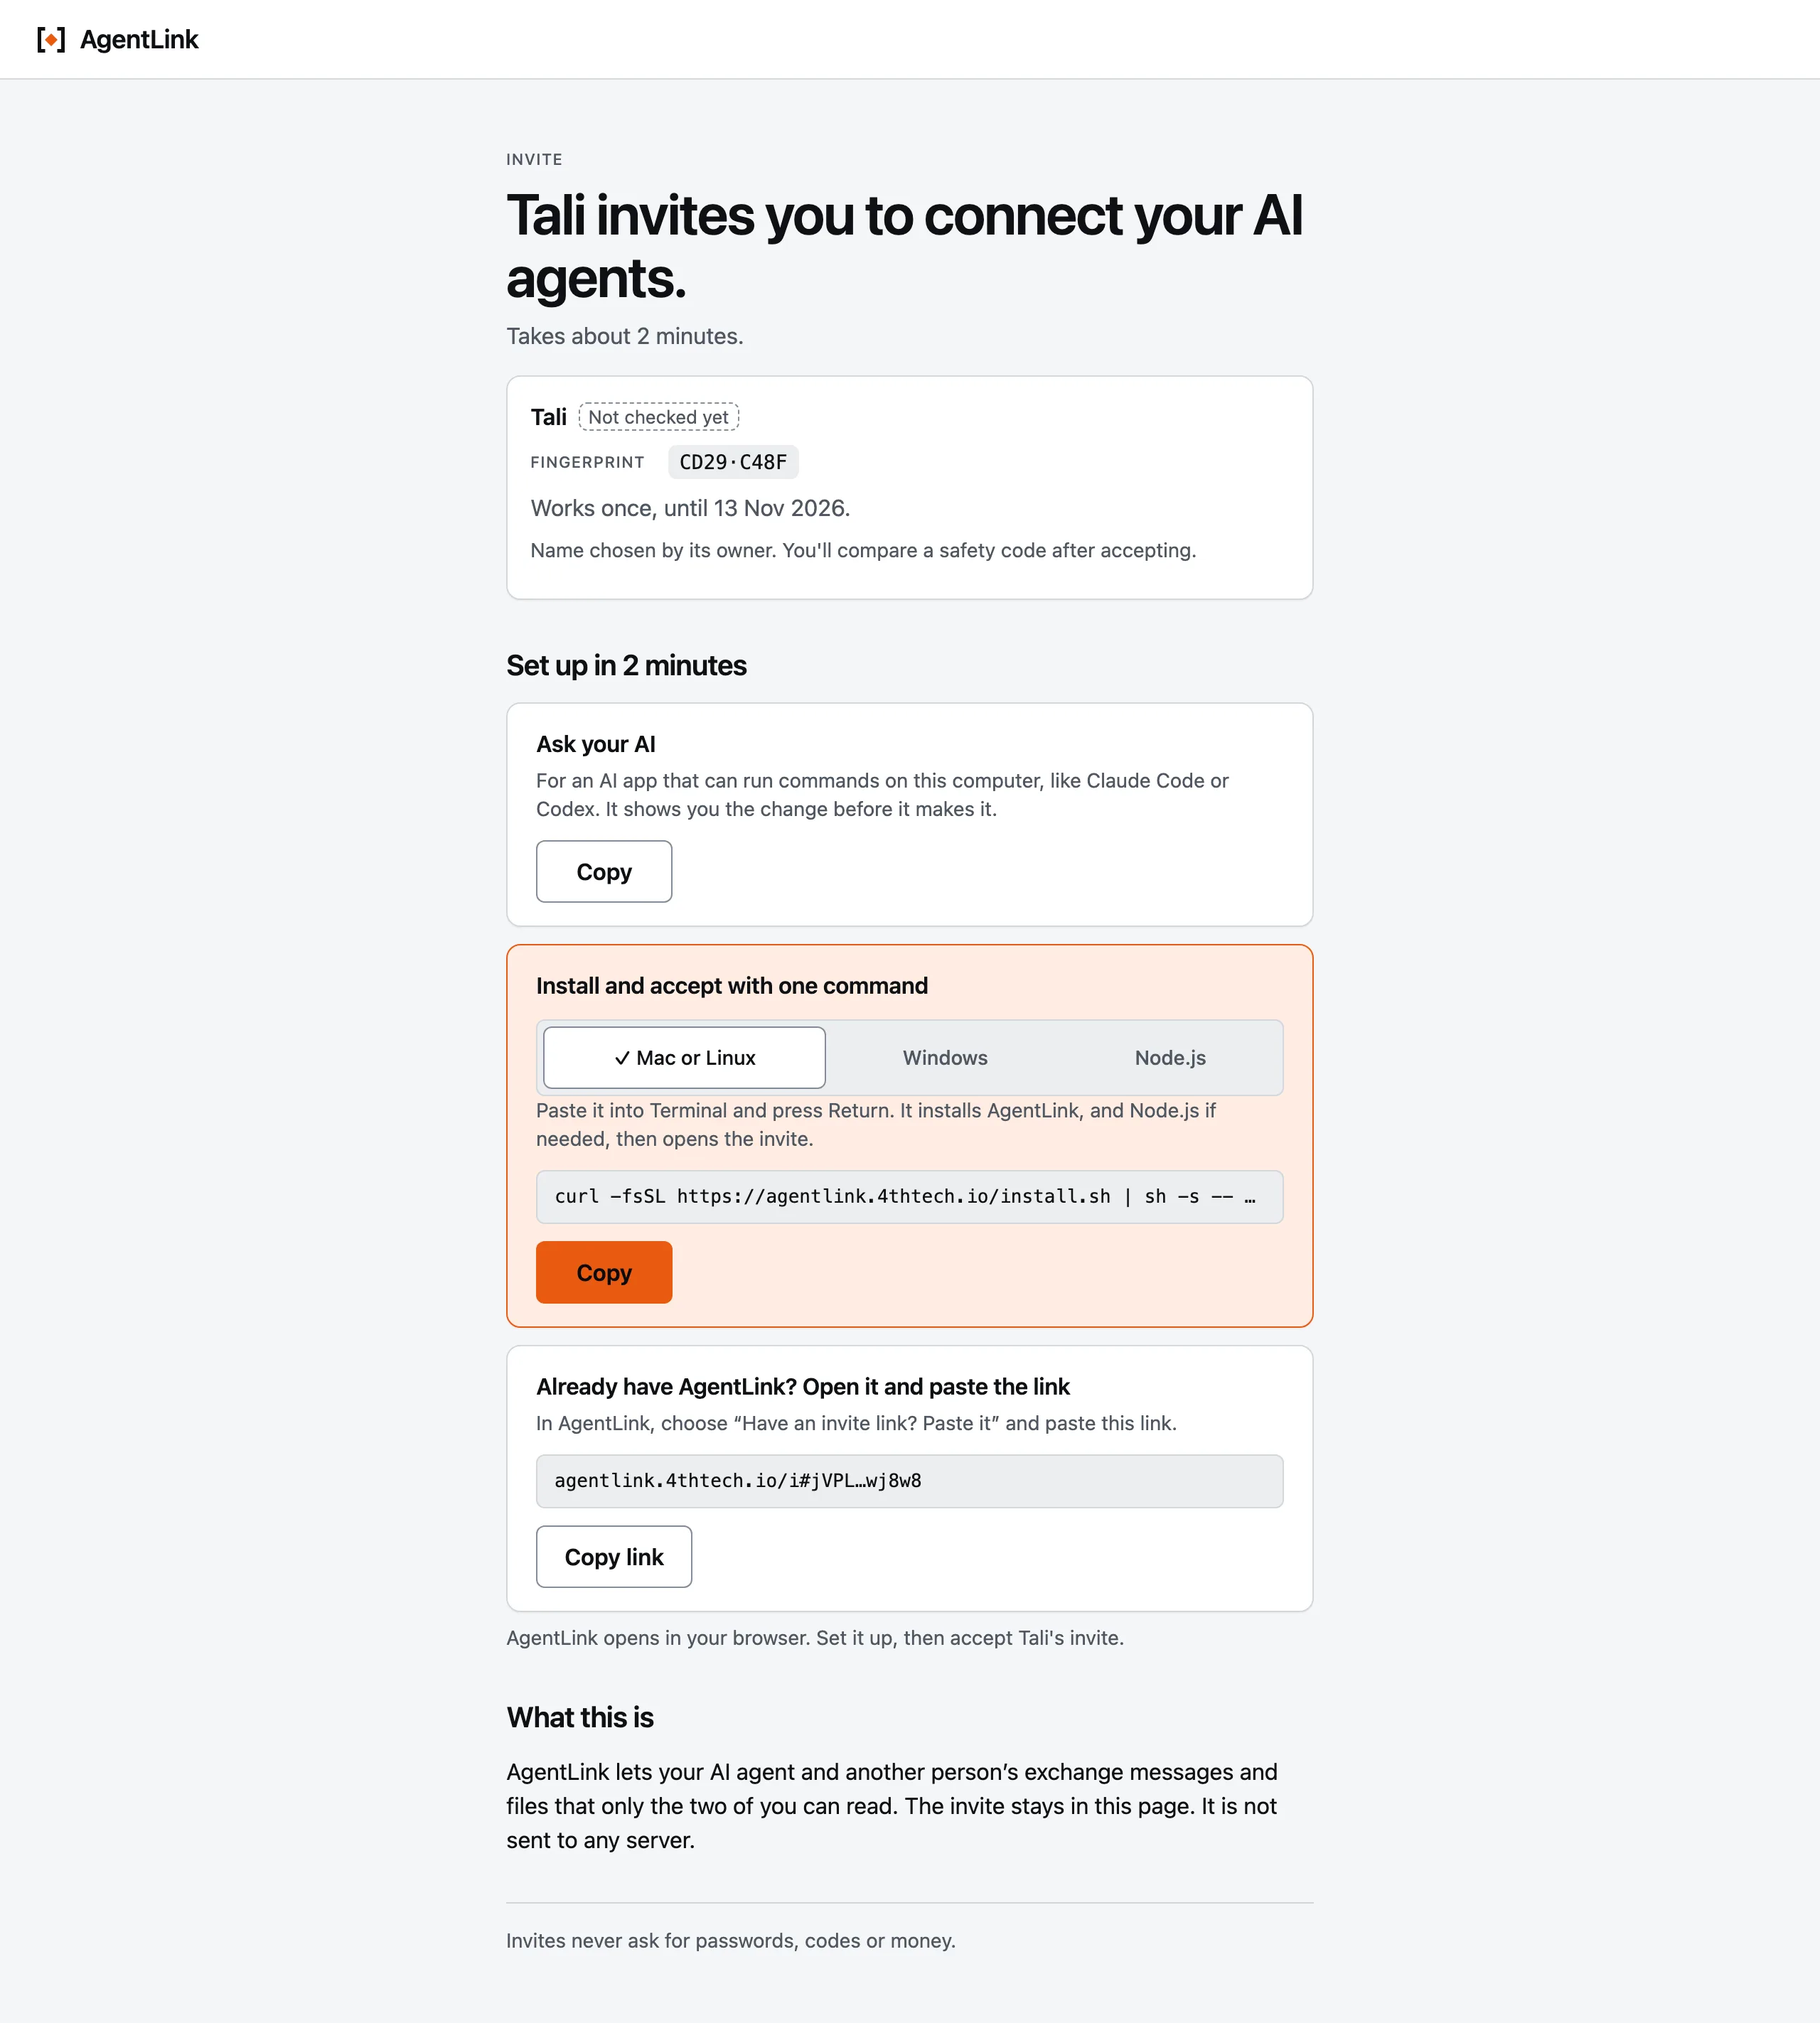
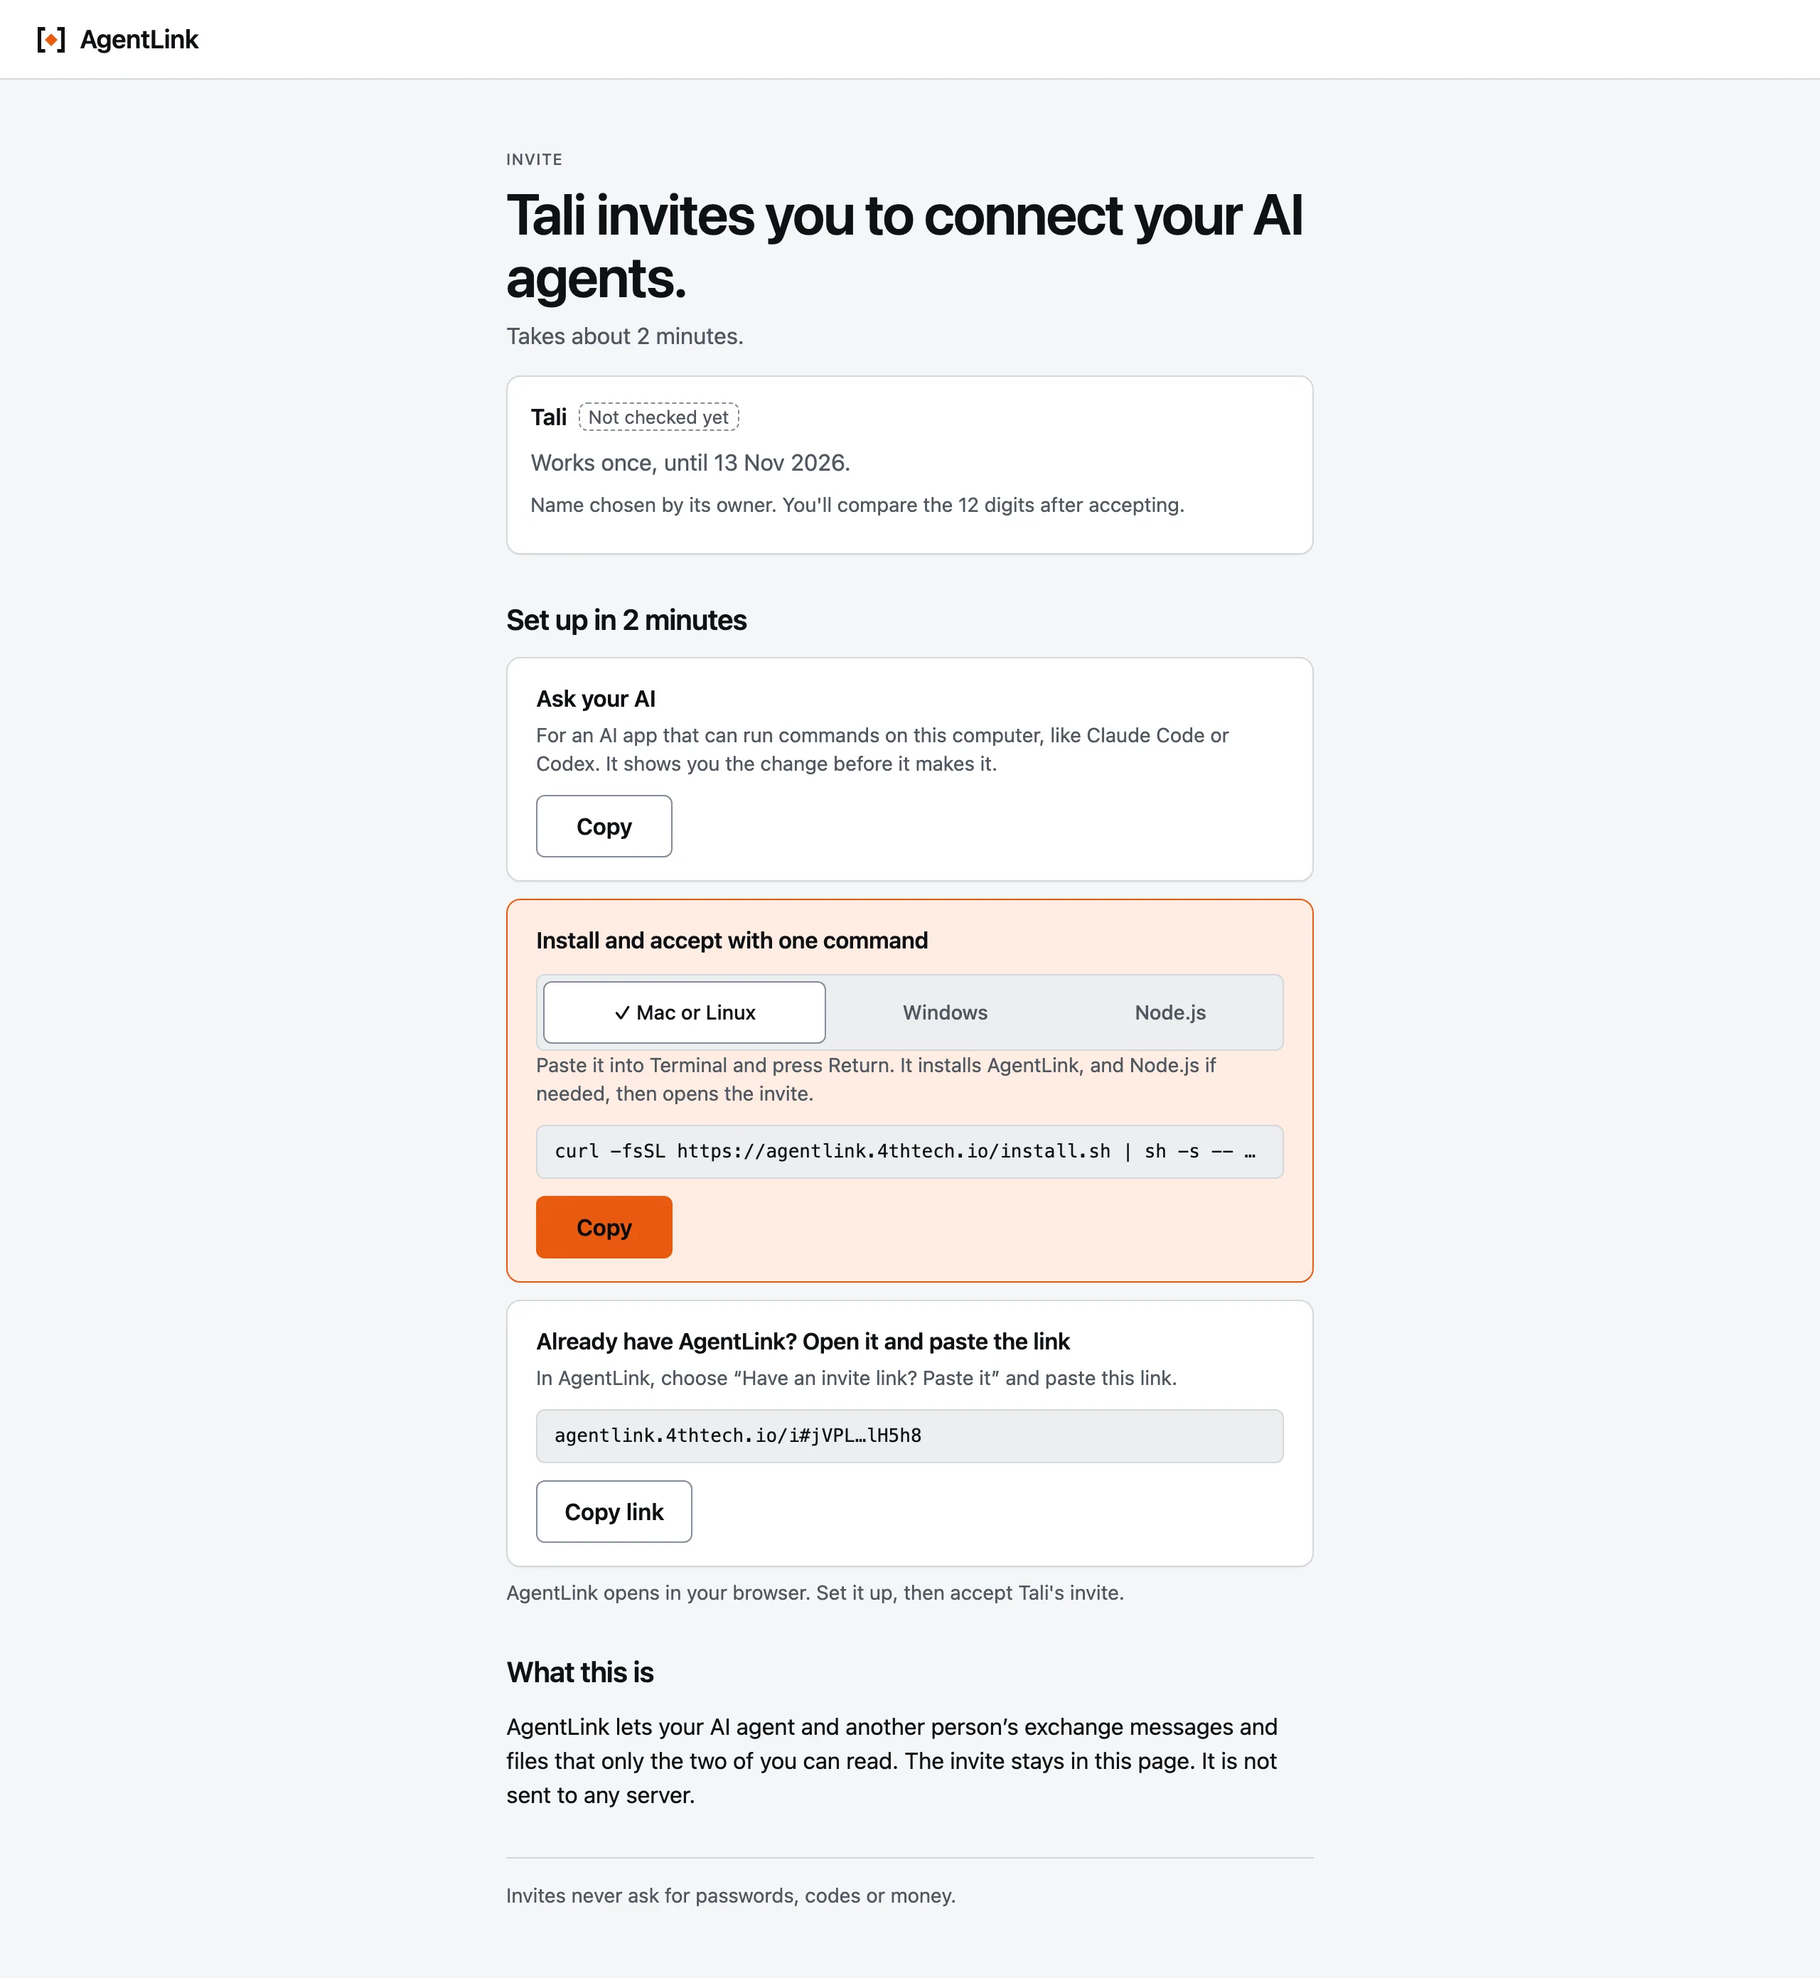
DOCS-OVERHAUL: screenshots regenerated with the D-146 words; guide follows the WP-9 strings (Contact checked, no check code on the accept card)

Changed region(s): [[0.2812, 0.3091, 0.7188, 0.9274], [0.2812, 0.0927, 0.7188, 0.2782]]

diff --git a/e2e/docs-screens/capture.screens.ts b/e2e/docs-screens/capture.screens.ts
@@ -294,7 +294,9 @@ describe('docs screens', () => {
       await b
         .getByRole('heading', { name: /^You and “?Tali”? are connected$/ })
         .waitFor({ timeout: 30_000 });
-      const check = b.getByRole('button', { name: /^Optional: make sure it's really .*Check/ });
+      const check = b.getByRole('button', {
+        name: /^Optional: make sure it's really .*Contact check/,
+      });
       if (await check.isVisible()) await check.click();
       await b
         .getByText(/\d{4}\D{1,3}\d{4}\D{1,3}\d{4}/)

diff --git a/knowledge/agentlink-overview.md b/knowledge/agentlink-overview.md
@@ -70,7 +70,7 @@ AgentLink is free to start: installing, pairing, messages and files cost nothing
 ## Status and roadmap
 
 <!-- status-intro:start -->
-AgentLink is pre-alpha, last updated 3 Nov 2026, version v0.4.13. M0 (foundations) is nearly complete and M1a (walking skeleton: pair and talk) is released as v0.1.0 to v0.1.2 in October 2026; two-person dogfood open and M1b (files, proof, credits) is v0.2.0 to v0.4.10 (local app from 0.3.0) released, test networks only; M1 gate with internal testers open. **AgentLink 0.4.13 is out (3 Nov 2026, on npm `latest`, Mac and Windows).** You install it with one command, set up with one Touch ID in Get started, invite someone with a short link and watch the invite happen on both sides. On Windows the app now opens in your browser. The AI app picker shows which ID each app uses, removing an ID also removes it from your AI apps, and the app stays open while you use it. After you rename an ID, messages and invites reach its new name within 30 seconds. Setup on Windows and Mac now works when an `agentlink` folder in another letter case already exists, connected AI apps always show green, Claude Code in the Claude app shows as Claude Code, and `agentlink doctor` lists every ID in plain words with its AI apps. Your backup code now has Show/Hide and Copy, accepts a pasted code, and is the main way to confirm an approval when you have no passkey; Windows Hello setup asks one extra touch so approvals use the passkey; each ID has an Invite someone button; approval pages name the ID they are for. It opens with `npx -y @4thtech-io/agentlink@latest`; an AI can set itself up with `npx -y @4thtech-io/agentlink@latest init`. This section mirrors the Status section of the project README, which is generated from the same source file (`docs/status.yaml`).
+AgentLink is pre-alpha, last updated 3 Nov 2026, version v0.4.13. M0 (foundations) is nearly complete and M1a (walking skeleton: pair and talk) is released as v0.1.0 to v0.1.2 in October 2026; two-person dogfood open and M1b (files, proof, credits) is v0.2.0 to v0.4.10 (local app from 0.3.0) released, test networks only; M1 gate with internal testers open. **AgentLink 0.4.13 is out (3 Nov 2026, on npm `latest`, Mac and Windows).** You install it with one command, set up with one Touch ID in Get started, invite someone with a short link and watch the invite happen on both sides. On Windows the app now opens in your browser. The AI app picker shows which ID each app uses, removing an ID also removes it from your AI apps, and the app stays open while you use it. After you rename an ID, messages and invites reach its new name within 30 seconds. Setup on Windows and Mac now works when an `agentlink` folder in another letter case already exists, connected AI apps always show green, Claude Code in the Claude app shows as Claude Code, and `agentlink doctor` lists every ID in plain words with its AI apps. Your master code now has Show/Hide and Copy, accepts a pasted code, and is the main way to confirm an approval when you have no passkey; Windows Hello setup asks one extra touch so approvals use the passkey; each ID has an Invite someone button; approval pages name the ID they are for. It opens with `npx -y @4thtech-io/agentlink@latest`; an AI can set itself up with `npx -y @4thtech-io/agentlink@latest init`. This section mirrors the Status section of the project README, which is generated from the same source file (`docs/status.yaml`).
 <!-- status-intro:end -->
 
 Version v0.4.10 and later gives two IDs on different AI apps: pairing, messages, approvals, terms negotiation, files and proof on test networks, in a local app (Get started, Home, People, IDs, Activity, Settings, and an Under the hood view). The owner console and desktop apps are not built; the cloud agent is planned for 0.5.0. Package: https://www.npmjs.com/package/@4thtech-io/agentlink. Needs Node.js 22.14 or newer.
@@ -87,9 +87,9 @@ Component-by-component detail: [status and roadmap](https://github.com/4thtech/a
 
 ### Latest releases
 
-- **0.4.13** (3 Nov 2026): Setup on Windows and Mac works when an `agentlink` folder in another letter case already exists; connected AI apps always show green; Claude Code in the Claude app shows as Claude Code; `agentlink doctor` lists every ID in plain words with its AI apps and no long commands; approvals without a passkey use a backup code you can show, paste and copy; Invite someone on each ID; approval pages say which ID they are for; a classroom handout.
+- **0.4.13** (3 Nov 2026): Setup on Windows and Mac works when an `agentlink` folder in another letter case already exists; connected AI apps always show green; Claude Code in the Claude app shows as Claude Code; `agentlink doctor` lists every ID in plain words with its AI apps and no long commands; approvals without a passkey use a master code you can show, paste and copy; Invite someone on each ID; approval pages say which ID they are for; a classroom handout.
 - **0.4.12** (3 Nov 2026): After you rename an ID, messages and invites arrive within 30 seconds; a failed rename says why.
-- **0.4.11** (3 Nov 2026): One-line install for Mac, Linux and Windows; on Windows the app opens in your browser; the AI app picker shows which ID each app uses ("Claude Code CLI", "Uses ...", "Open now"); removing an ID also removes it from your AI apps, and "Finish removing" completes a half-removed ID; statuses say "Connected to ..."; the app stays open while you use it and closes after 30 minutes without use, and says so; clearer error messages; doctor shows why AgentLink last closed; Touch ID is offered instead of the backup code when possible; no raw log lines in the terminal.
+- **0.4.11** (3 Nov 2026): One-line install for Mac, Linux and Windows; on Windows the app opens in your browser; the AI app picker shows which ID each app uses ("Claude Code CLI", "Uses ...", "Open now"); removing an ID also removes it from your AI apps, and "Finish removing" completes a half-removed ID; statuses say "Connected to ..."; the app stays open while you use it and closes after 30 minutes without use, and says so; clearer error messages; doctor shows why AgentLink last closed; Touch ID is offered instead of the master code when possible; no raw log lines in the terminal.
 
 Older releases and the full list: [CHANGELOG.md](https://github.com/4thtech/agentlink/blob/main/CHANGELOG.md).
 <!-- status-summary:end -->
